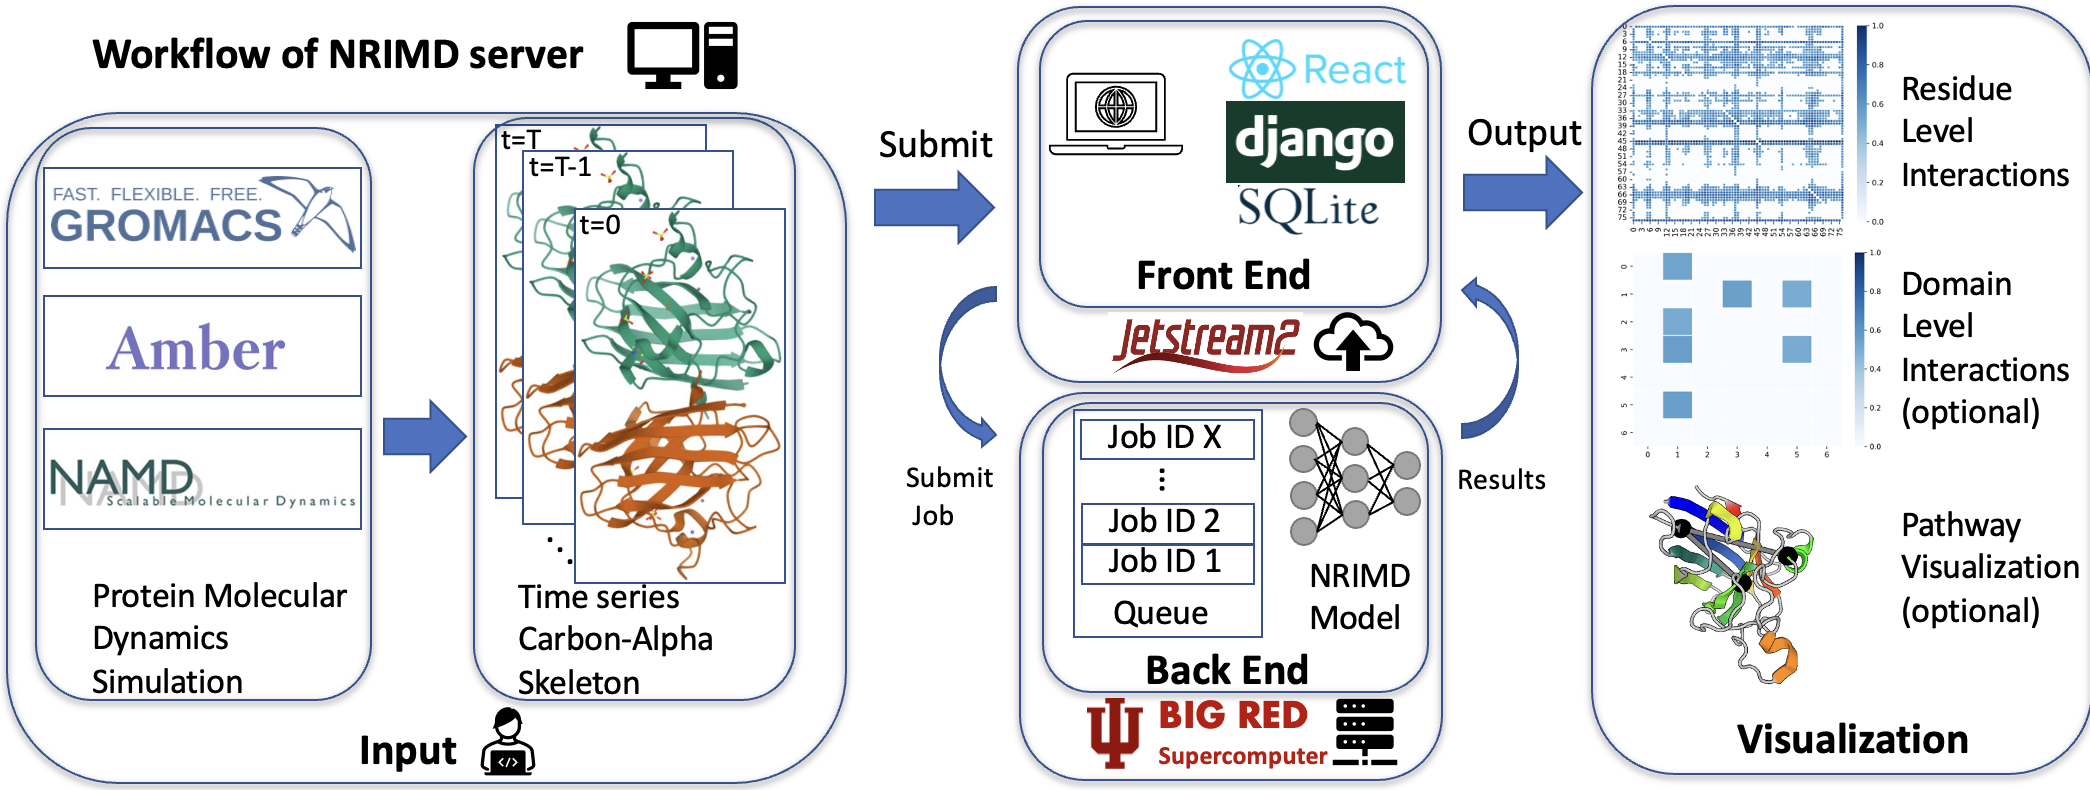
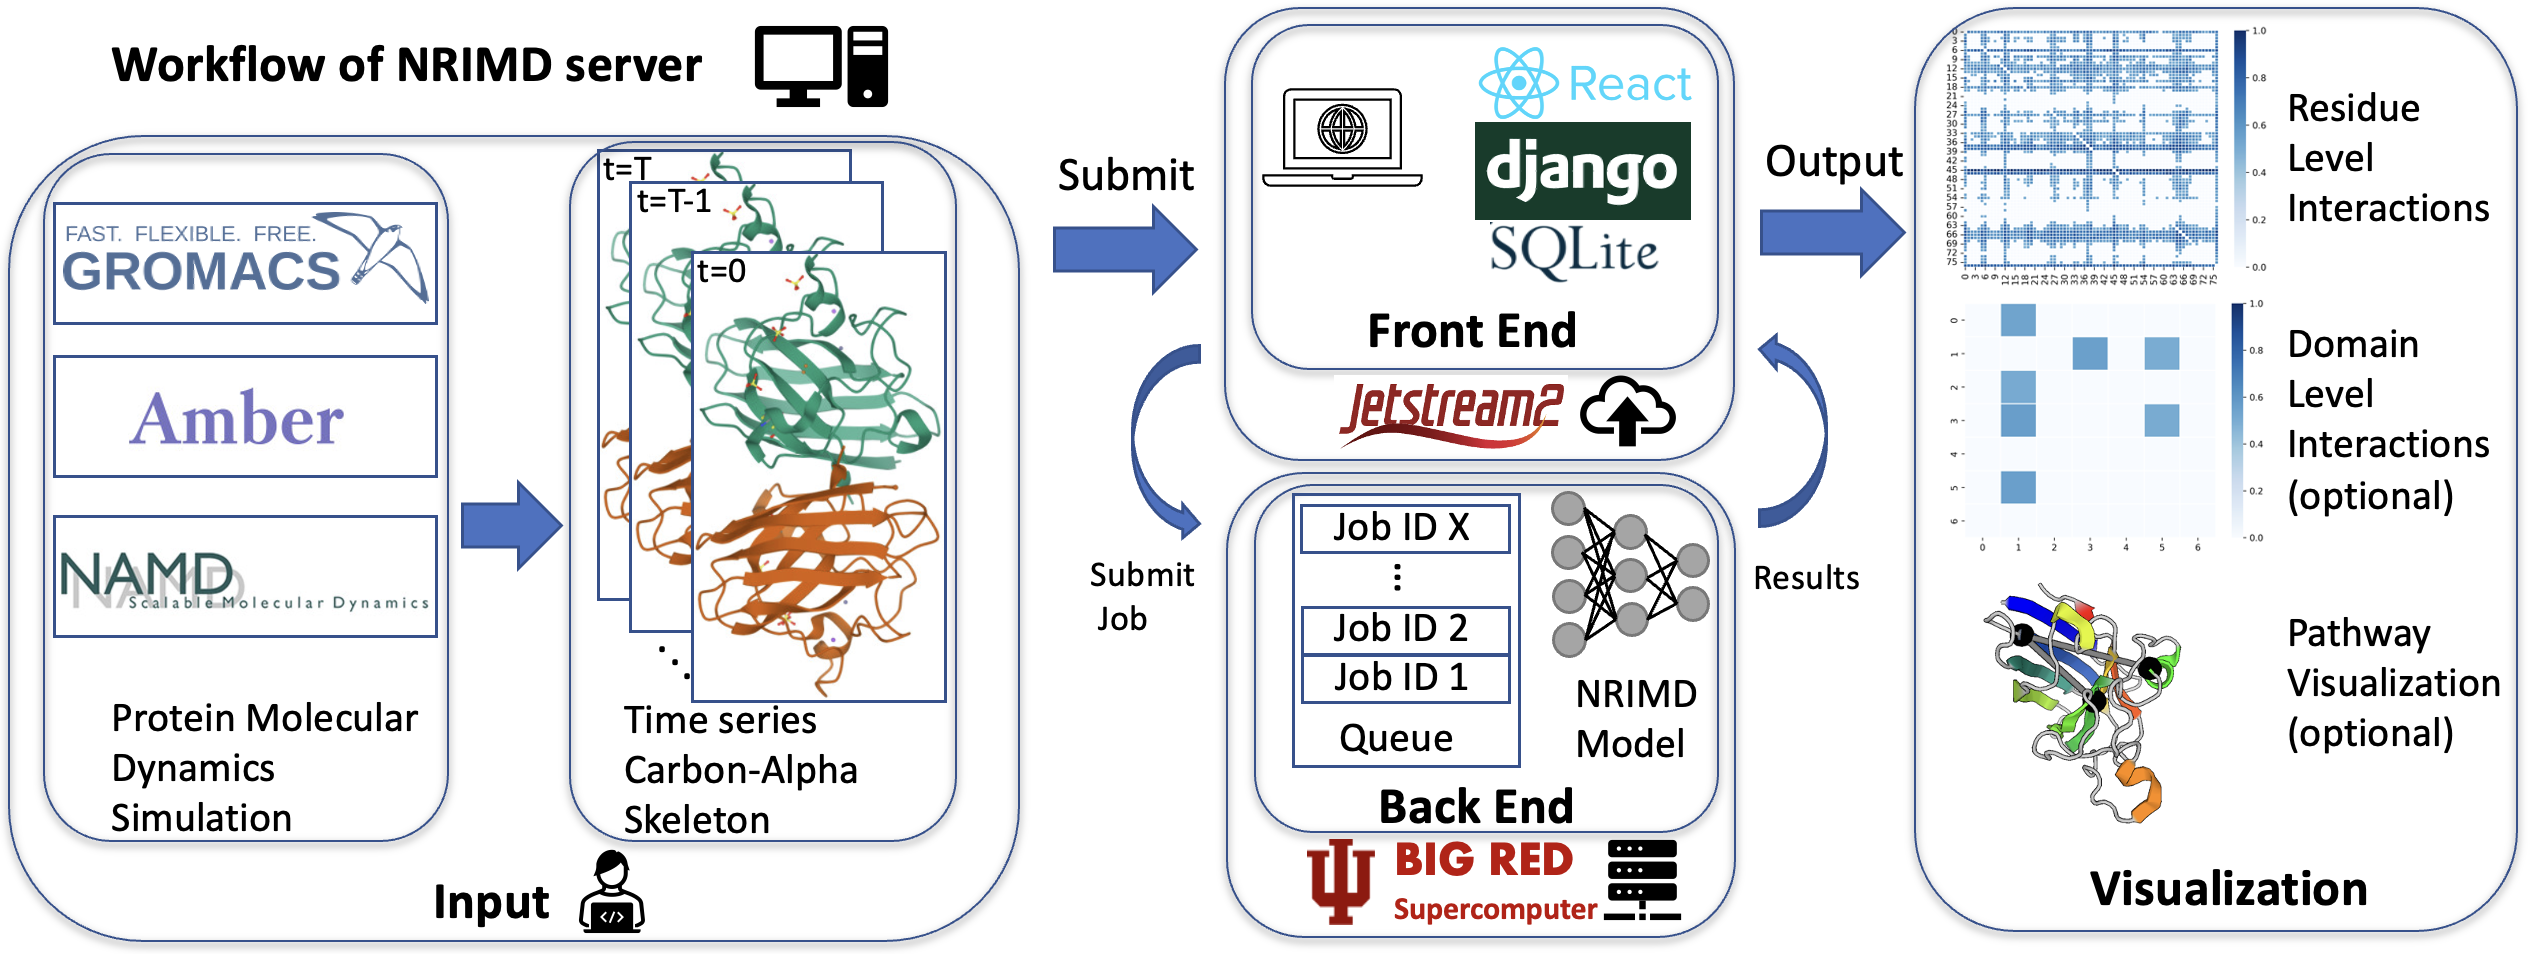
update workflow

diff --git a/frontend/src/components/QuickStart.jsx b/frontend/src/components/QuickStart.jsx
@@ -14,7 +14,7 @@ let intro=<div>
             Based on our recent works on neural relational inference using graph neural networks (<a href="https://www.nature.com/articles/s41467-022-29331-3">Zhu et al, Nature Communications</a>), we developed <Link to='/intro'>NRIMD</Link>, a web server for analyzing long-range interactions in proteins from MD simulation. The cloud-based web server accepts MD simulation data in the Carbon-Alpha skeleton format from mainstream MD software AMBER, NAMD, and GROMACS. The input MD trajectory data is validated in the front end, and then submitted to the backend on a High-Performance Computer system supported by Indiana University cyberinfrastructure. Due to its computational intensity on GPUs, the submitted tasks will be lined up in the computational queue in the HPC. The results include the learned long-range interactions and pathways that can mediate the long-range interactions between distant sites, and the visualization from the trajectories obtained in MD.<br></br>
             The learning process includes the system preparation of a ligand-binding complex or mutant protein structure with allostery (a), the MD simulation of a prepared allosteric system to obtain the trajectory with the dynamic 3D coordinates (b), the conventional analysis for the trajectory (c), and the sampling and training using the NRI model with two jointly trained components (d). In (d), the NRI model consists of an encoder, which infers a factorized distribution qΦ(z|x) over the latent interactions based on the input trajectories and a decoder, which reconstructs the future trajectories of the dynamic systems given the latent graph learned from the encoder. Based on the MD trajectory, the NRI model formulates the protein allosteric process as a dynamic network of interacting residues. The interaction graph learned from this model is compared with the conventional analysis to better understand the allosteric pathway in the protein.<br></br>
             </div>
-            <img src={flowchart} alt="" style={{width:'500px'}}></img>
+            <img src={flowchart} alt="" style={{width:'1000px'}}></img>
         </div>
 let submit=<div>
   <HowSubmit/>
